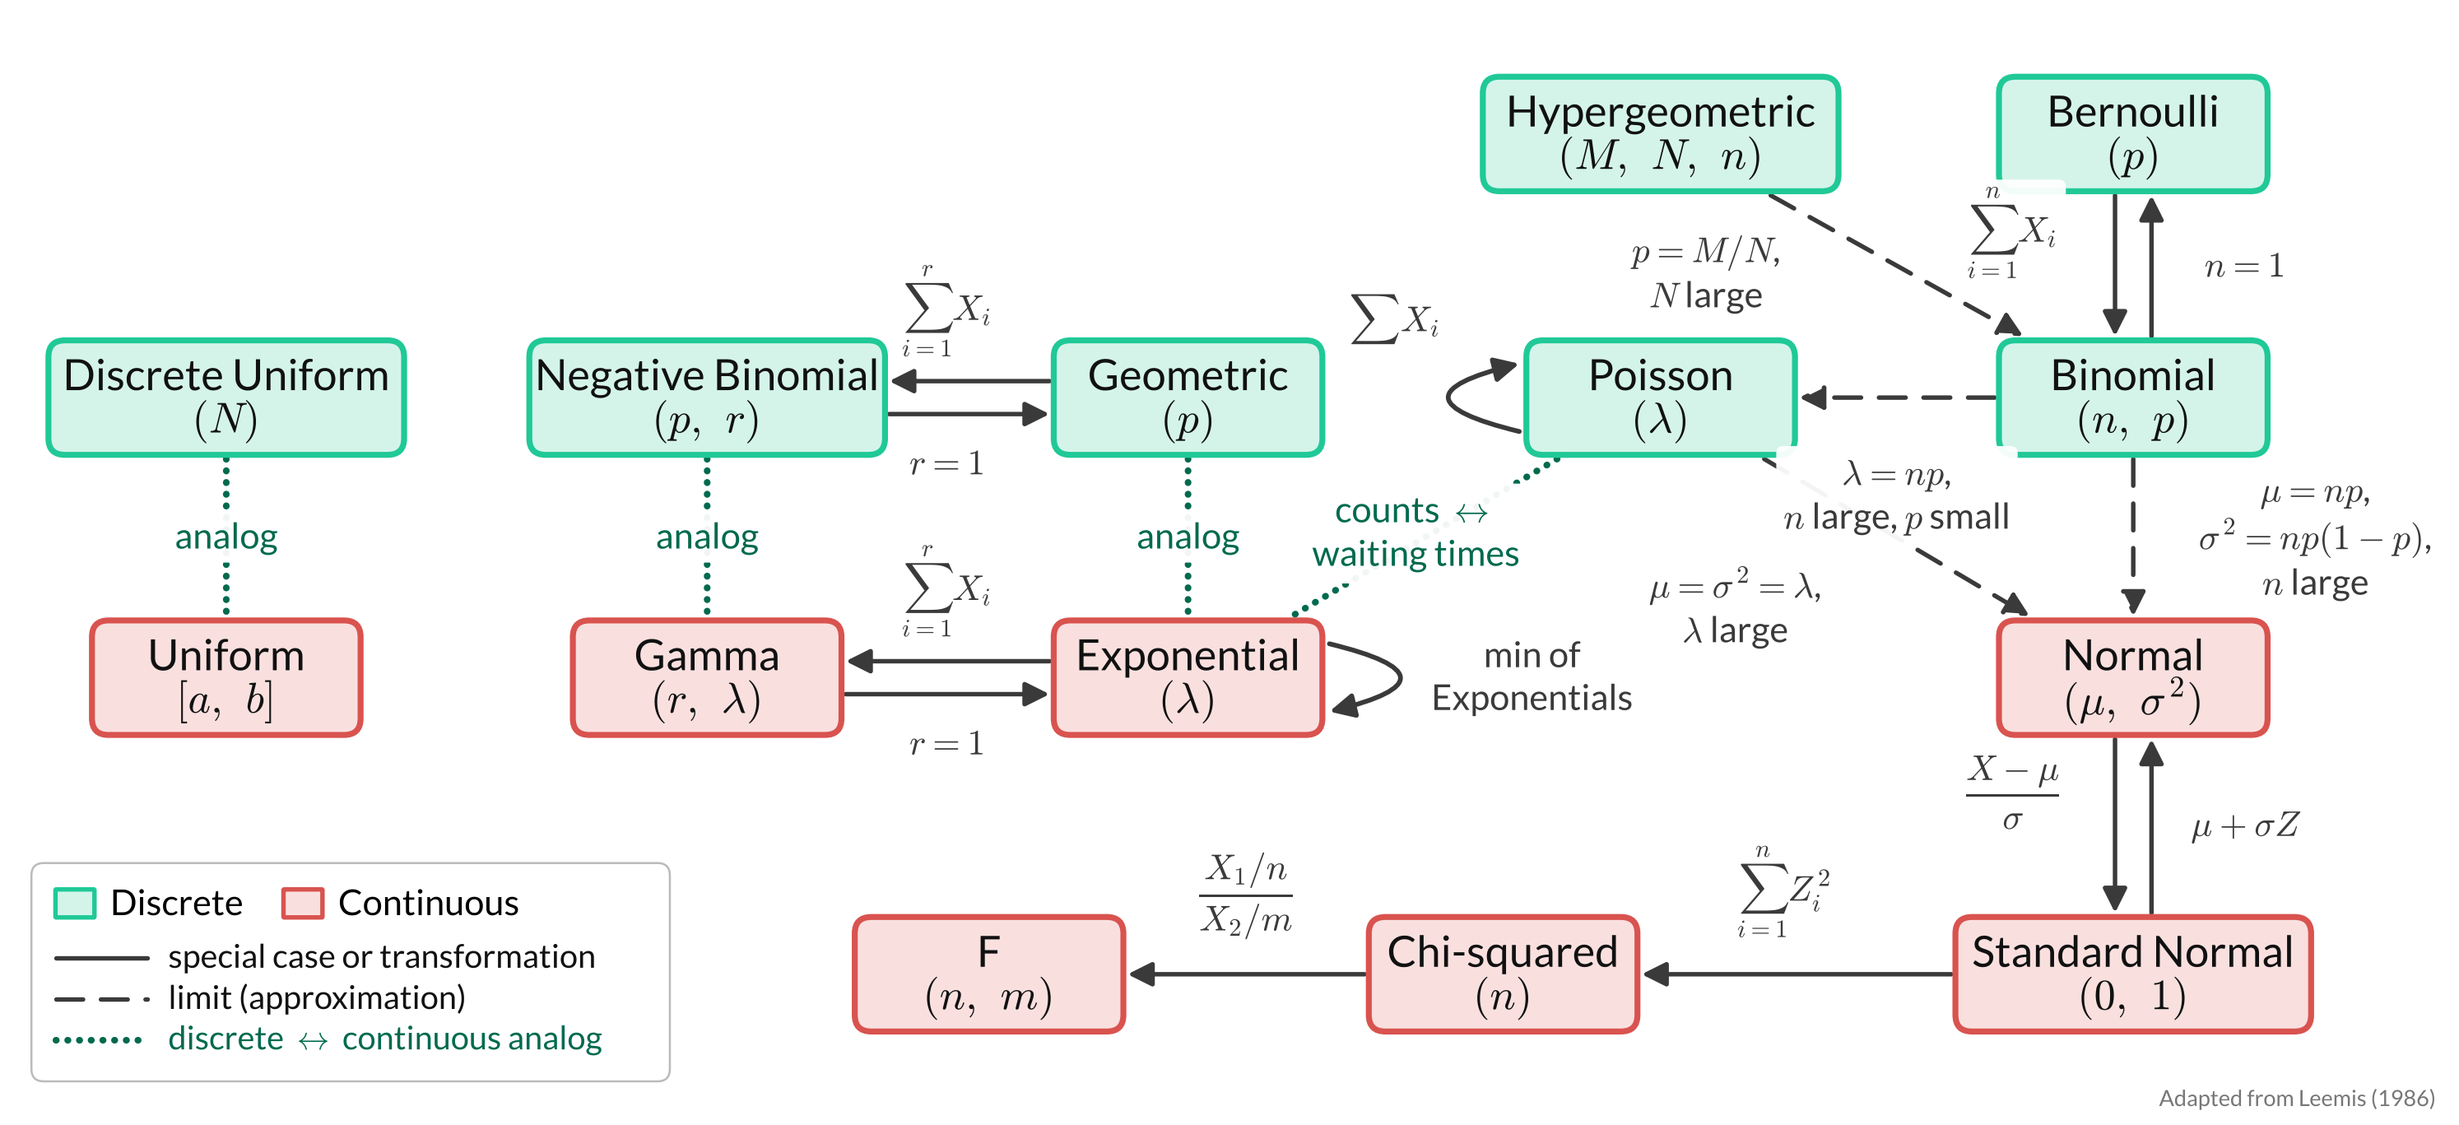
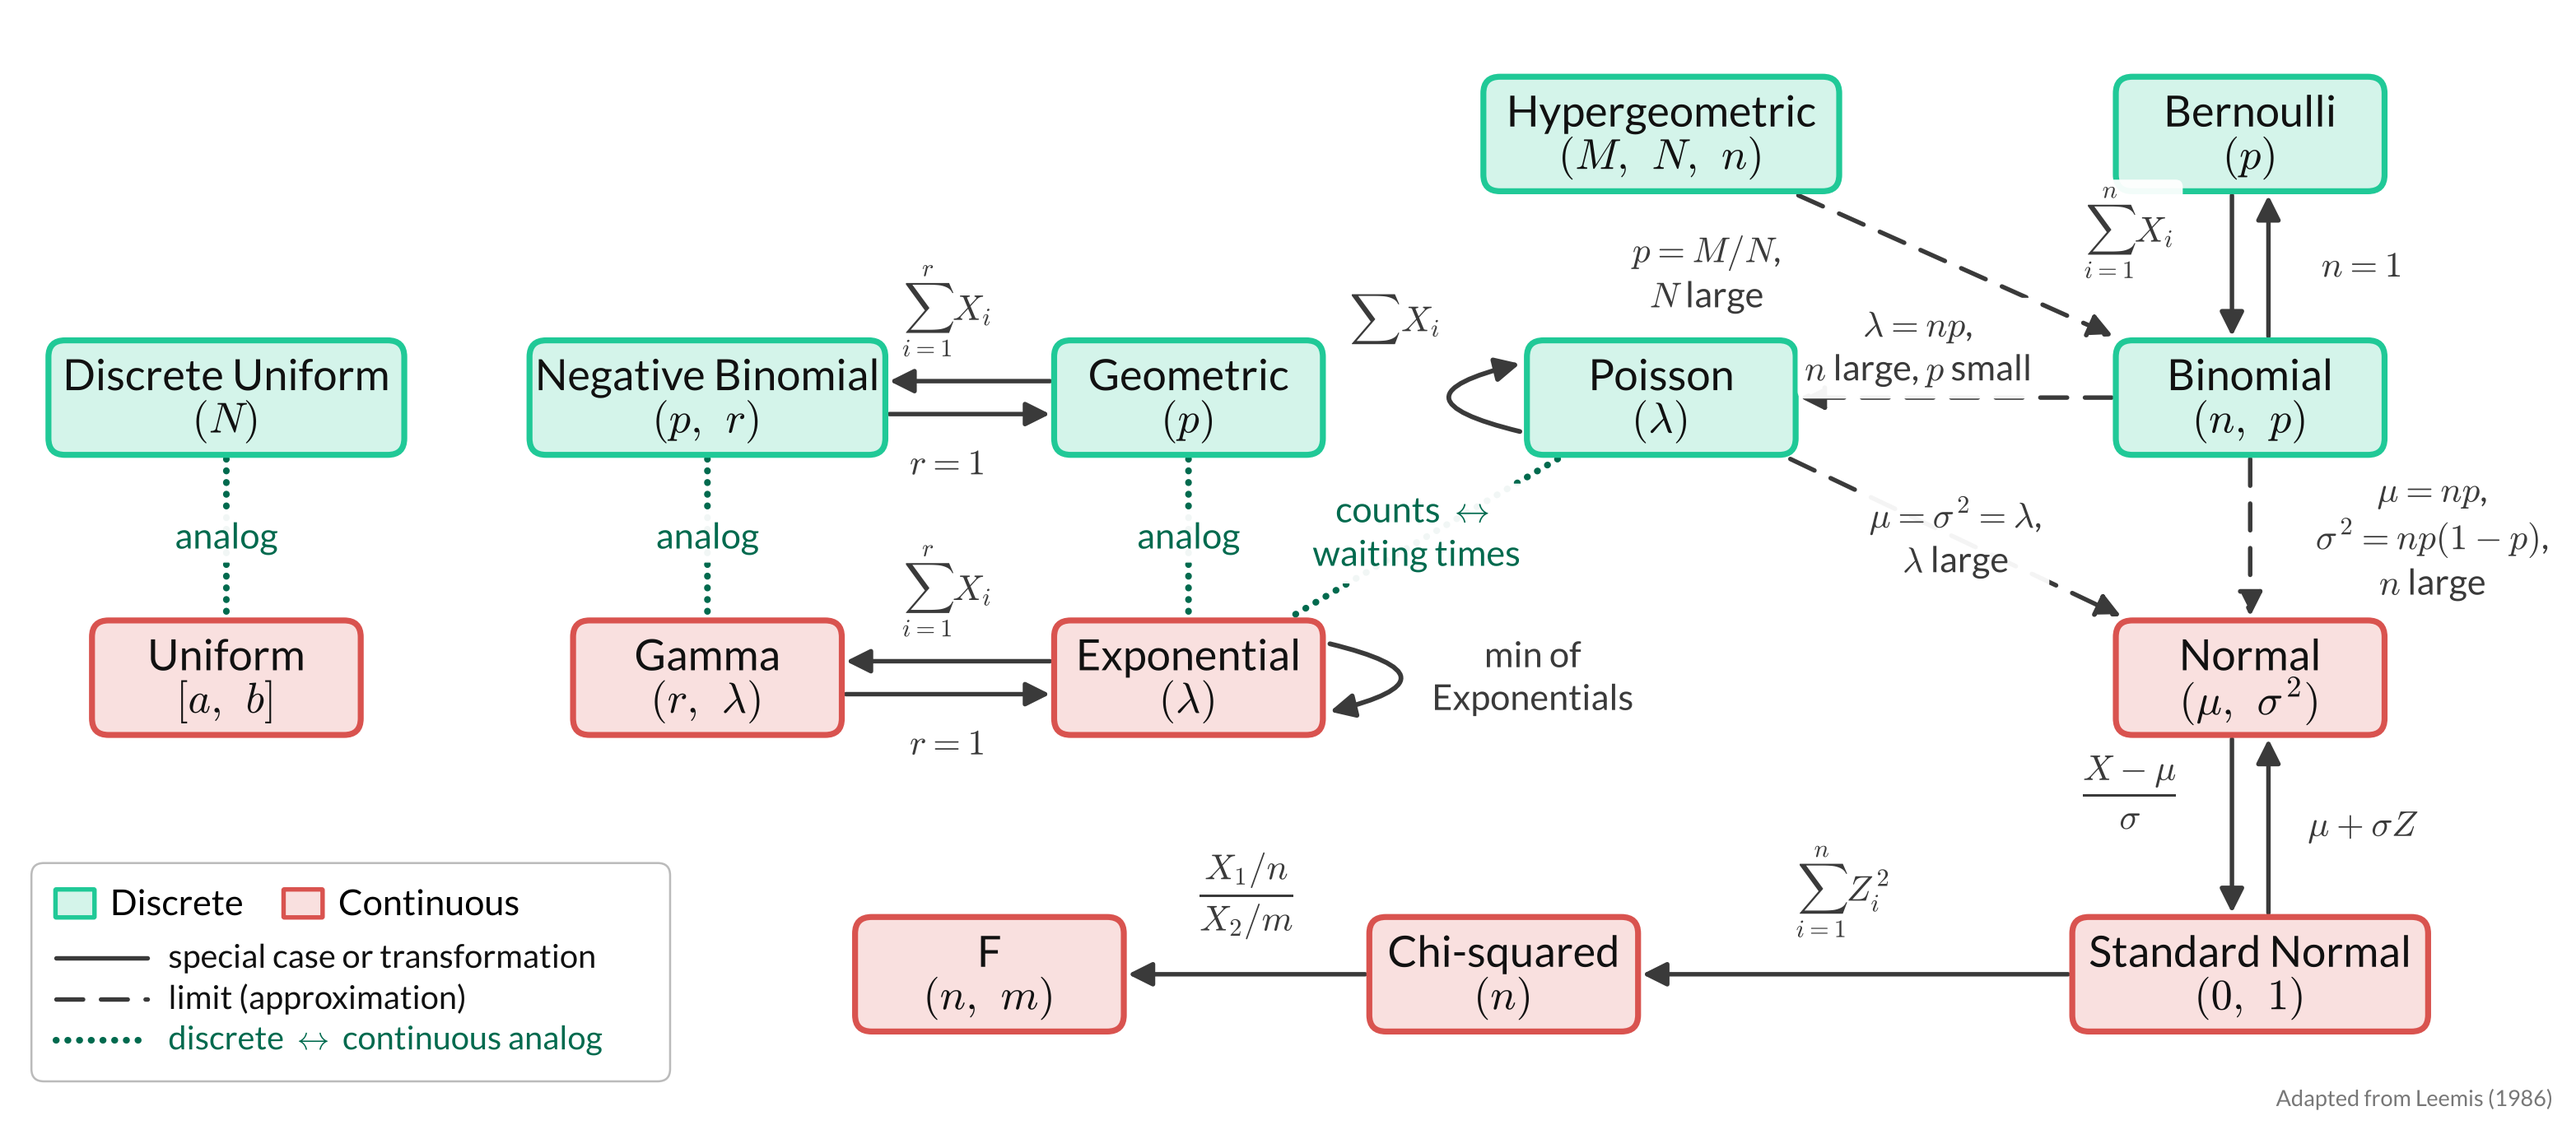
Diagram: separate the Binomial-Poisson and Poisson-Normal labels
Widen the gap between Poisson and Binomial, put the Binomial -> Poisson
label above its line, and center the Poisson -> Normal label on its own
line, so each label clearly belongs to one arrow.

Claude-Session: https://claude.ai/code/session_014RNZw7Duztpq4pkrBTHNg4

diff --git a/lessons/img_slides/distribution_relationships.py b/lessons/img_slides/distribution_relationships.py
@@ -15,7 +15,7 @@ plt.rcParams.update({"font.family": "Lato", "mathtext.fontset": "cm"})
 TEAL, TEAL_L = "#20c997", "#d4f4ea"
 RED, RED_L   = "#d9534f", "#f9e0df"
 GREEN, INK   = "#006a4e", "#3a3a3a"
-W, H = 29.4, 13.4
+W, H = 30.8, 13.4
 fig, ax = plt.subplots(figsize=(W, H), dpi=150)
 ax.set_xlim(0, W); ax.set_ylim(0, H); ax.axis("off")
 
@@ -23,7 +23,7 @@ NAME, LABEL = 29, 24          # font sizes: box text, line labels
 BW, BH = 3.2, 1.35            # box size (wide boxes get +WIDE)
 WIDE = 1.05
 WIDE_BOXES = ("nb", "dunif", "z", "hyper")
-c = [2.6, 8.4, 14.2, 19.9, 25.6]   # column centers
+c = [2.6, 8.4, 14.2, 19.9, 27.0]   # column centers
 rA, rB, rC, rD = 11.9, 8.7, 5.3, 1.7
 N = {
  "hyper": (c[3], rA, "Hypergeometric", r"$(M,\ N,\ n)$", "d"),
@@ -56,6 +56,10 @@ def edge_pt(k, toward):
     dx, dy = toward[0]-x, toward[1]-y
     s = min(hw/abs(dx) if dx else 1e9, hh/abs(dy) if dy else 1e9)
     return (x+dx*s, y+dy*s)
+
+def mid(a, b, t=0.5):
+    A = edge_pt(a, N[b][:2]); B = edge_pt(b, N[a][:2])
+    return (A[0]+(B[0]-A[0])*t, A[1]+(B[1]-A[1])*t)
 
 def lab(x, y, s, color=INK, size=LABEL):
     ax.text(x, y, s, ha="center", va="center", fontsize=size, color=color, zorder=6,
@@ -104,9 +108,9 @@ arrow("chi", "f"); lab((N["chi"][0]+N["f"][0])/2, rD+0.95, r"$\dfrac{X_1/n}{X_2/
 
 # --- dashed: limits
 arrow("hyper", "binom", style="dashed"); lab(c[3]+0.55, 10.2, "$p = M/N$,\n$N$ large")
-arrow("binom", "pois", style="dashed");  lab((c[3]+c[4])/2, 7.5, "$\\lambda = np$,\n$n$ large, $p$ small")
+arrow("binom", "pois", style="dashed");  x_, y_ = mid("binom", "pois", 0.62); lab(x_, y_+0.6, "$\\lambda = np$,\n$n$ large, $p$ small")
 arrow("binom", "norm", style="dashed");  lab(c[4]+2.2, 7.0, "$\\mu = np$,\n$\\sigma^2 = np(1-p)$,\n$n$ large")
-arrow("pois", "norm", style="dashed");   lab(c[3]+0.9, 6.15, "$\\mu = \\sigma^2 = \\lambda$,\n$\\lambda$ large")
+arrow("pois", "norm", style="dashed");   lab(*mid("pois", "norm"), "$\\mu = \\sigma^2 = \\lambda$,\n$\\lambda$ large")
 
 # --- dotted green: discrete <-> continuous analogs (no arrowheads)
 for a,b in [("dunif","unif"), ("nb","gam"), ("geo","expo"), ("pois","expo")]:
